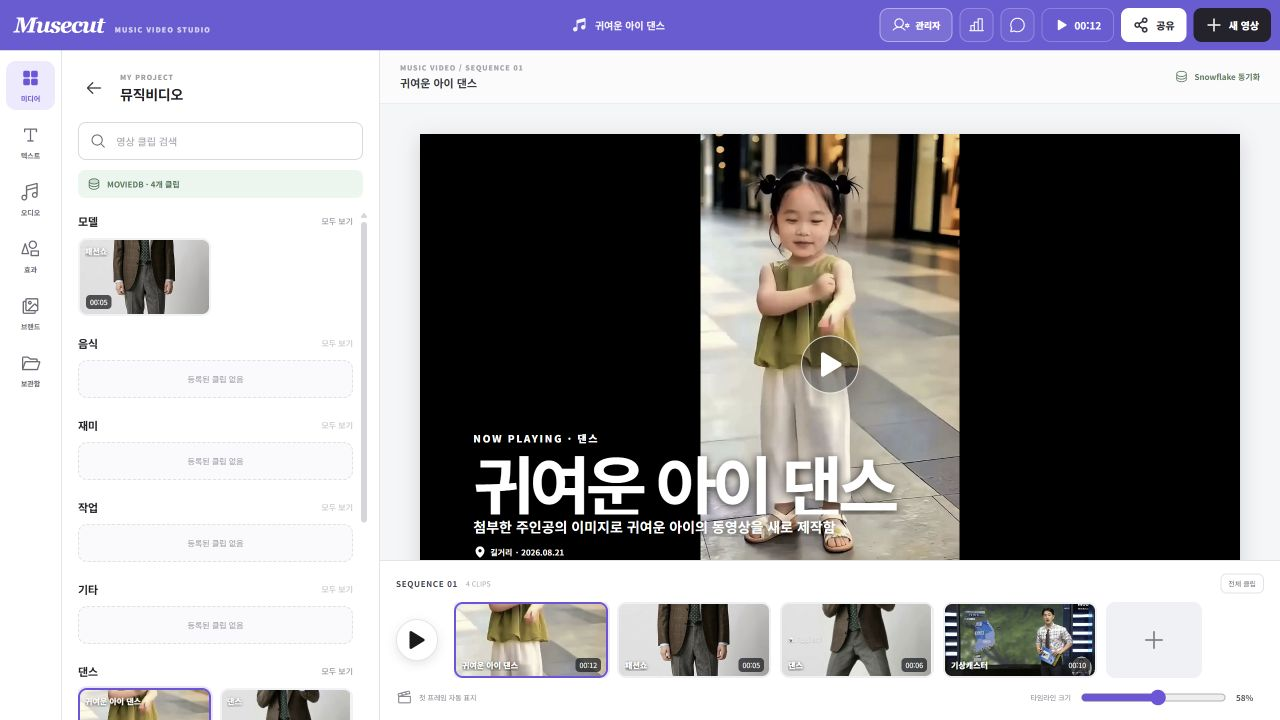
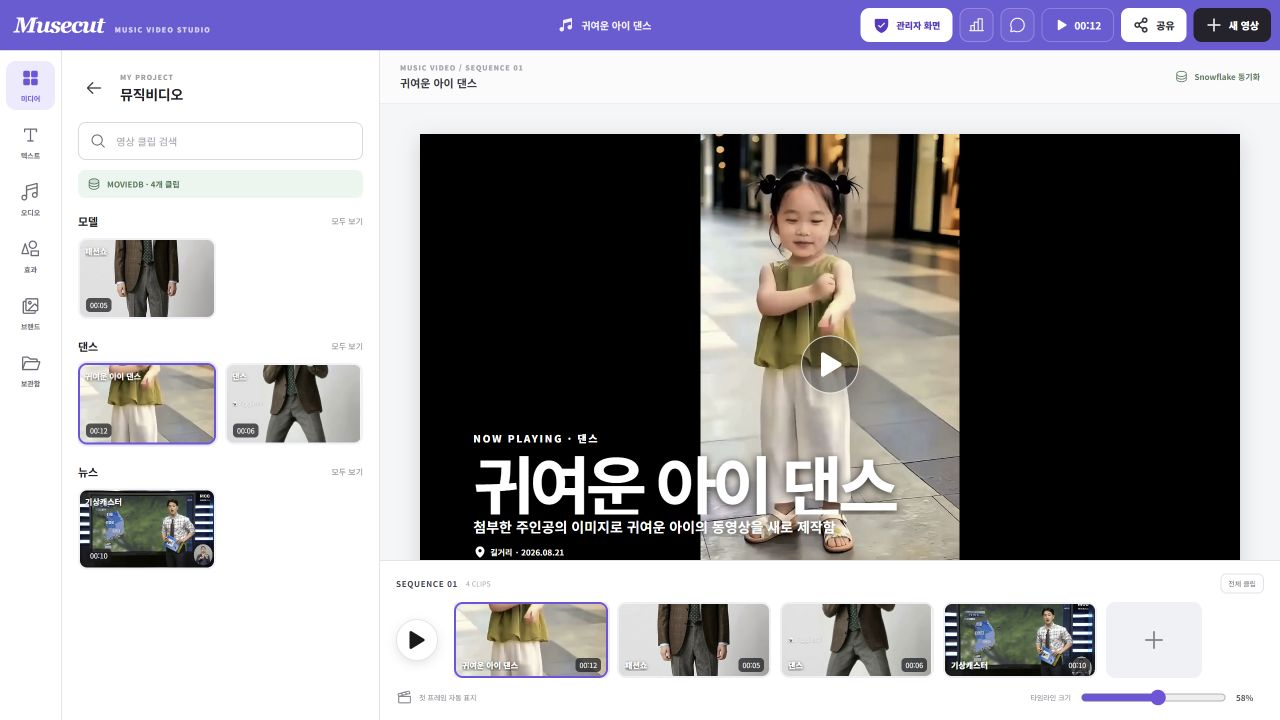
fix: hide empty movie categories

diff --git a/src/App.jsx b/src/App.jsx
@@ -639,7 +639,8 @@ export function App() {
           !query || [post.title, post.caption, post.location, post.category]
             .some((value) => String(value || "").toLocaleLowerCase("ko").includes(query))
         )),
-      }));
+      }))
+      .filter((group) => group.items.length > 0);
   }, [categoryOptions, posts, searchTerm]);
 
   function openPlayer(post) {
@@ -814,7 +815,7 @@ export function App() {
                 {dbChecked && dbConnected && !libraryGroups.length && <div className="library-empty">등록된 뮤직비디오 클립이 없습니다.</div>}
                 {libraryGroups.map((group) => (
                   <section className="library-group" key={group.category}>
-                    <header><h3>{group.category}</h3><button type="button" disabled={!group.items.length} onClick={() => { setFilter(group.category); setActivePost(group.items[0]); }}>모두 보기</button></header>
+                    <header><h3>{group.category}</h3><button type="button" onClick={() => { setFilter(group.category); setActivePost(group.items[0]); }}>모두 보기</button></header>
                     <div className="library-grid">
                       {group.items.map((post) => (
                         <button key={post.id} className={featuredPost?.id === post.id ? "selected" : ""} type="button" onClick={() => openPlayer(post)}>
@@ -823,7 +824,6 @@ export function App() {
                           <strong>{post.title}</strong>
                         </button>
                       ))}
-                      {!group.items.length && <div className="library-group-empty">등록된 클립 없음</div>}
                     </div>
                   </section>
                 ))}

diff --git a/src/styles.css b/src/styles.css
@@ -225,18 +225,7 @@ button:focus-visible, input:focus-visible, select:focus-visible, textarea:focus-
   cursor: pointer;
 }
 .library-group header button:hover { color: var(--purple); }
-.library-group header button:disabled { color: #c4c6cc; cursor: default; }
 .library-grid { display: grid; grid-template-columns: repeat(2, minmax(0, 1fr)); gap: 9px; }
-.library-group-empty {
-  grid-column: 1 / -1;
-  padding: 12px 10px;
-  border: 1px dashed #e0e1e6;
-  border-radius: 9px;
-  background: #fafafd;
-  color: #a0a3aa;
-  font-size: 8px;
-  text-align: center;
-}
 .library-grid > button {
   position: relative;
   min-width: 0;
